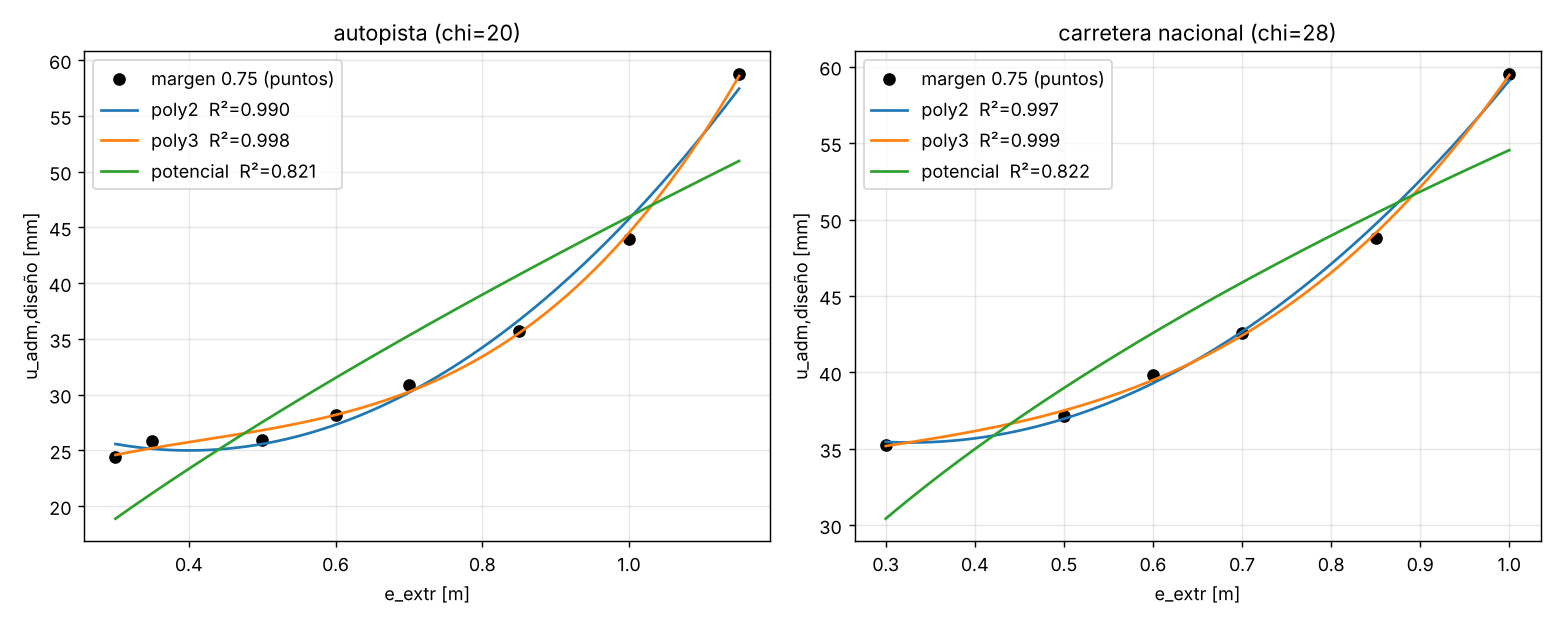
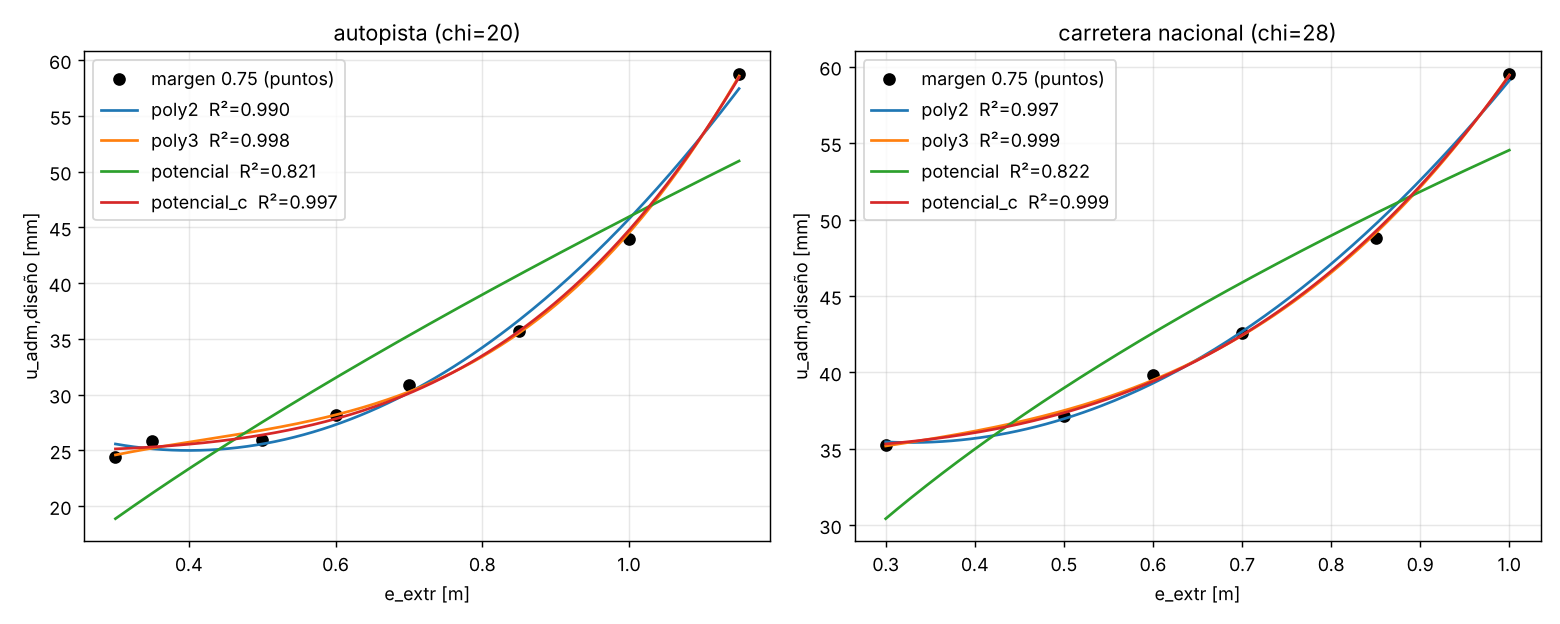
Añade ajuste potencial con término independiente y = c + a·x^b
Claude-Session: https://claude.ai/code/session_01HfED3CSSfwc3Gh3X1w4V7T

diff --git a/herramientas/ajuste_margen/ajuste.py b/herramientas/ajuste_margen/ajuste.py
@@ -7,6 +7,7 @@ F=0.75
 SETS={"autopista (chi=20)":[[0.30,32.5],[0.35,34.4],[0.50,34.6],[0.60,37.6],[0.70,41.2],[0.85,47.6],[1.00,58.6],[1.15,78.4]],
       "carretera nacional (chi=28)":[[0.30,47.0],[0.50,49.5],[0.60,53.1],[0.70,56.8],[0.85,65.1],[1.00,79.4]]}
 pot=lambda x,a,b:a*x**b
+potc=lambda x,c,a,b:c+a*x**b
 out={}; fig,axs=plt.subplots(1,2,figsize=(12,4.8))
 for ax,(nm,pts) in zip(axs,SETS.items()):
     x,y=np.array(pts).T; y=y*F; xs=np.linspace(x.min(),x.max(),200)
@@ -16,6 +17,7 @@ for ax,(nm,pts) in zip(axs,SETS.items()):
         d=2 if nmf=="poly2" else 3; c=np.polyfit(x,y,d); yh=np.polyval(c,x)
         res[nmf]=(c.tolist(),yh,np.polyval(c,xs))
     p,_=curve_fit(pot,x,y,p0=[40,1]); res["potencial"]=(p.tolist(),pot(x,*p),pot(xs,*p))
+    q,_=curve_fit(potc,x,y,p0=[20,30,2],maxfev=20000); res["potencial_c"]=(q.tolist(),potc(x,*q),potc(xs,*q))
     out[nm]={}
     for k,(c,yh,ys) in res.items():
         r2=1-((y-yh)**2).sum()/((y-y.mean())**2).sum()
